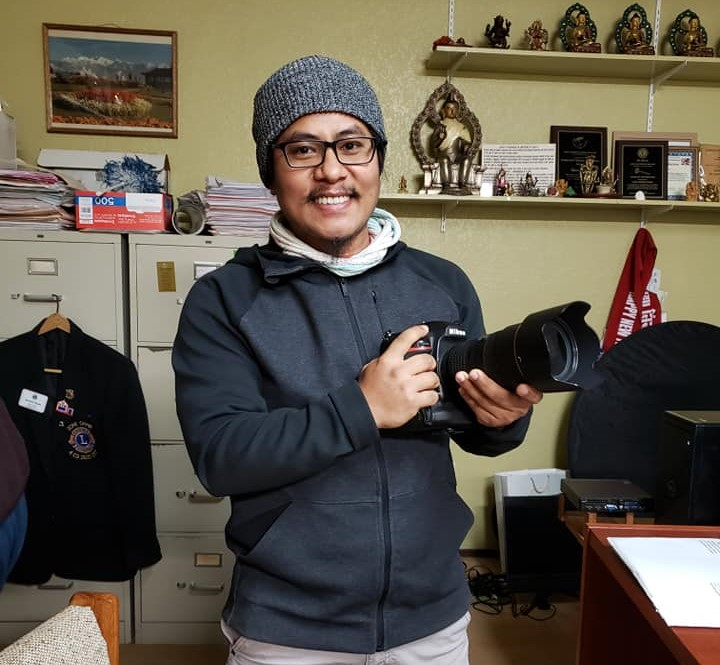
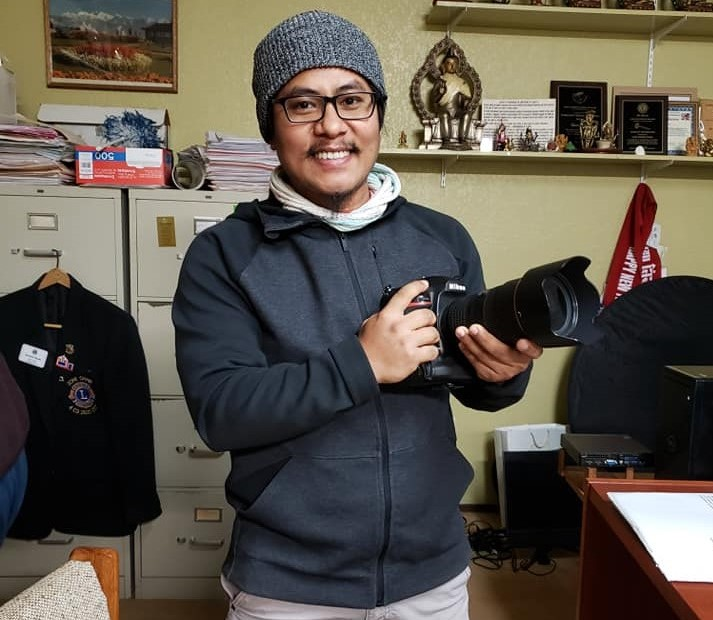
changes in collage home page

diff --git a/index.html b/index.html
@@ -357,7 +357,7 @@
                                 <div class="one_half parallax_scroll_image last" style="width: 65%;">
                                     <div class="image_classic_frame expand">
                                         <div class="image_wrapper">
-                                            <img src="upload/index/aboutUs.jpg" alt="" class="portfolio_img" />
+                                            <img src="upload/index/collageCollection.jpg" alt="" class="portfolio_img" />
                                         </div>
                                     </div>
                                 </div>
